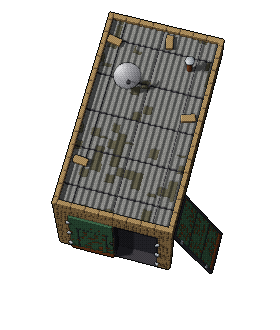
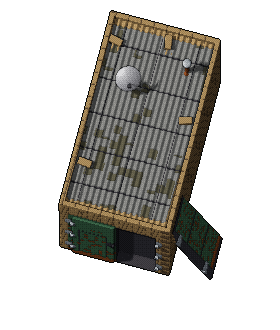
Garage drawn by depth, fellow's quests one at a time, his legs
The garage is rendered like the wreck and its containers: no perspective,
its ground laid out as the game lays it, with a depth map, so the game
draws it in bands, each bit in front of the hero or behind him as it
stands; the bits in front of him go see-through when it covers him. Its
collision is a rectangle round its walls (with a little room for his
pack) in place of the row of circles that cut its corners.

The fellow gives his quests one at a time: "Why are you here alone?"
(gold) starts the equipment quest; then "You look weird!" (blue) starts
the huge thing's, its sector opened on the map then. Both answers can be
cut off with E. His name card is gold while he has a story ask, blue
while a side quest's. The side quest panel slides in from the right as
the main one does. fellowAsked is kept in the checkpoint on its own.

The fellow's legs: thinner, narrowing down to the ankle, not quite even.

Changed region(s): [[0.1714, 0.0303, 0.8, 0.8485]]

diff --git a/public/client.js b/public/client.js
@@ -126,7 +126,8 @@ const shownTarget = () => (backpackCue.phase === 'armed' || backpackCue.phase ==
 // (what the quest is after is named in gold, as in its text; its name up out of the way of its life's dots, when it has them)
 const labelOf = (o, x, y) => {
   const box = sprites.objectInk(o.sprite ?? o.name, x, y);
-  return { id: o.id ?? o.name, text: o.label, sub: o.note, box: lifeOf(o) ? { ...box, y0: box.y0 - LIFE_ROOM } : box, quest: o.name === shownTarget(), side: questOn(o) };
+  const asks = o.name === 'fellow' ? fellowAsks() : []; // (the fellow: in gold while he's a story's ask to be asked, in blue while a side quest's)
+  return { id: o.id ?? o.name, text: o.label, sub: o.note, box: lifeOf(o) ? { ...box, y0: box.y0 - LIFE_ROOM } : box, quest: o.name === shownTarget() || asks.some((a) => a.gold), side: questOn(o) || asks.some((a) => a.side) };
 };
 // A thing's life, shown over it (see render/life.js) while it's to be hit, as [left, most]: the bottles'
 // while the drill's on (one each), the bag's while its quest is (a cut each); or null
@@ -1814,8 +1815,8 @@ const CHECKPOINT = 'colonism.checkpoint';
 const SECTORS = [
   { at: () => pod.home, explored: () => hasBackpack || checkpointReached, activity: () => hasBackpack },
   { at: () => STRUCTURES.home, explored: () => hasBackpack || checkpointReached, activity: () => firesideUsed },
-  { at: () => EQUIPMENT.home, explored: () => fellowAsked, activity: () => equipmentReturned }, // (D2 and C1: shown him by the fellow's answer)
-  { at: () => HUGE_THING.home, explored: () => fellowAsked, activity: () => eggKilled },
+  { at: () => EQUIPMENT.home, explored: () => fellowAsked, activity: () => equipmentReturned }, // (D2: shown him by the fellow's answer)
+  { at: () => HUGE_THING.home, explored: () => quests.started('hugeThing'), activity: () => eggKilled }, // (C1: once the fellow's spoken of it)
   { at: () => WRECK.home, explored: () => fellowThreatened, activity: () => false }, // (C3: shown him by his answer to the threat; its device not got yet)
   { at: () => D3, explored: () => fellowThreatened, activity: () => false }, // (and D3, next to it: on the way there)
 ];
@@ -1828,15 +1829,24 @@ let checkpointReached = false, firesideUsed = false, fellowTalked = false, fello
 let fellowAsk = false; // what to ask the fellow is up over the hero (by number), till he picks one or walks off
 // What he can ask the fellow (each while it can be: when()), numbered in order: what comes of it at once
 // (now()), as he asks; the fellow answers once he's said it (typed out, and a moment), and then what
-// comes of that (then()); gold: the story's
+// comes of that (then()); gold: the story's; side: a side quest's
 const FELLOW_ASKS = [{
-  text: 'How do I get off this planet?',
+  text: 'Why are you here alone?',
   gold: true,
+  minor: true, // (E's back while he answers: he can be cut off, the quest he gives on all the same)
   when: () => !fellowAsked && quests.target() === 'fellow', // (while the quest to ask him is on)
-  answer: 'I lost my equipment in the West. I have a couple of ideas, but I\'m completely useless without it, help me get it back. By the way, have you seen that huge thing near the pole?',
-  then() { // the quest to find a way off done (its note first), the next on; the beacon's sector and the pole's explored, their marks on the map
+  answer: 'The others flew off. I stayed to finish research. I don\'t like the others! Will you help me get my equipment back? Those damned bugs dragged it off.',
+  then() { // the quest to find a way off done (its note first), the next on: his equipment; the beacon's sector explored, its mark on the map
     quests.note('Still nothing interesting...');
     fellowAsked = true;
+  },
+}, {
+  text: 'You look weird!',
+  side: true, // (in blue: it starts a side quest)
+  minor: true, // (E's back while he answers: he can be cut off, the side quest on all the same)
+  when: () => fellowAsked && !quests.started('hugeThing'), // (once he's had his answer, till he's heard of it)
+  answer: 'So do you! You fell from the sky, I saw it... By the way, have you noticed that huge thing not far from the pole?',
+  then() { // the side quest to see it on; the pole's sector explored, its mark on the map
     quests.start('hugeThing');
   },
 }, {
@@ -1872,7 +1882,7 @@ const wellObj = OBJECTS.find((o) => o.name === 'well'), WELL_FOUND = 2.5 * UNITS
 function saveCheckpoint() {
   checkpointReached = true;
   try {
-    localStorage.setItem(CHECKPOINT, JSON.stringify({ level, xp, points, talents: talents.taken(), stats: character.stats, medkits, equipment: hasEquipment, equipmentReturned, fellowThreatened, wellSeen, quests: quests.save() }));
+    localStorage.setItem(CHECKPOINT, JSON.stringify({ level, xp, points, talents: talents.taken(), stats: character.stats, medkits, fellowAsked, equipment: hasEquipment, equipmentReturned, fellowThreatened, wellSeen, quests: quests.save() }));
   } catch { /* (no storage: nothing kept) */ }
 }
 function loadCheckpoint() {
@@ -1888,7 +1898,8 @@ function loadCheckpoint() {
   character.restore(saved.stats);
   me.hp = maxHp = HP + character.stats.strength; // (strength's health on top: all of it)
   quests.load(saved.quests);
-  fellowAsked = fellowTalked = quests.started('hugeThing'); // (the fellow's answer had: all it opened)
+  fellowAsked = saved.fellowAsked ?? quests.started('hugeThing'); // (the fellow's answer had: all it opened) (older checkpoints: by the quest it used to open too)
+  fellowTalked = fellowAsked;
   eggKilled = quests.finished('hugeThing'); // (burst before: only its pit there, its sector done)
   if (eggKilled) eggGone();
   hasEquipment = !!saved.equipment; // (picked up before: its crate gone)
@@ -2147,7 +2158,7 @@ function render(now, dt, talkDt = dt) {
   const bodies = [
     // A big thing drawn in bands by how far down the ground each of its pixels stands (sprites.bands): each in
     // its place among the characters, so each bit of it is in front of them or behind them as it should be
-    ...placed.filter((o) => !o.flat && sprites.bands(o.sprite ?? o.name)).flatMap((o) => sprites.bands(o.sprite ?? o.name).map((b) => ({ y: o.y + b.y * UNITS_PER_M, draw: () => sprites.drawBand(ctx, o.sprite ?? o.name, b, o.sx, o.sy) }))),
+    ...placed.filter((o) => !o.flat && sprites.bands(o.sprite ?? o.name)).flatMap((o) => sprites.bands(o.sprite ?? o.name).map((b) => ({ y: o.y + b.y * UNITS_PER_M, draw: () => sprites.drawBand(ctx, o.sprite ?? o.name, b, o.sx, o.sy, o.y + b.y * UNITS_PER_M > me.y && hidesMe(o) ? 0.45 : 1) }))), // (the bits in front of him see-through, if it covers him)
     ...placed.filter((o) => !o.flat && !sprites.bands(o.sprite ?? o.name)).map((o) => ({ y: o.footprint ? tallY(o) : o.y, draw: () => sprites.drawObject(ctx, o.sprite ?? o.name, 'body', o.sx, o.sy, hidesMe(o) ? 0.45 : 1, o.frame) })),
     ...players.map((p) => ({ y: p.y, draw: () => sprites.drawCharacter(ctx, p.sprite, pose(p)) })),
     ...bugs.map((b) => ({ y: b.y, draw: () => sprites.drawCharacter(ctx, 'bug', bugPose(b)) })),
@@ -2242,7 +2253,7 @@ function render(now, dt, talkDt = dt) {
   }
   // What he can do now, to pick by its number (what to ask the fellow, in gold: the story's): right
   // over him (over the hint, if it's up), the first on top, his line over them all
-  const choices = fellowAsk ? fellowAsks().map((ask) => ({ text: ask.text, gold: !!ask.gold })) : [];
+  const choices = fellowAsk ? fellowAsks().map((ask) => ({ text: ask.text, gold: !!ask.gold, side: !!ask.side })) : [];
   choices.forEach((c, i) => labels.warn(c.text, String(i + 1), sayEdge, sayAt - 6 - (choices.length - 1 - i) * 28, keys.has(`Digit${i + 1}`) ? 1 : 0, '', !!c.gold, !!c.side));
   if (choices.length) sayAt -= choices.length * 28;
   const said = speech.draw(me0.x, sayAt, talkDt, sayEdge);
@@ -2283,7 +2294,7 @@ function render(now, dt, talkDt = dt) {
     { at: pod.home, color: '#fff', name: pod.label },
     { at: POLE, color: '#fff', name: 'N' }, // the poles
     { at: POLE.map((v) => -v), color: '#fff', name: 'S' },
-    ...(fellowSeen && goal?.name !== 'fellow' ? [{ at: fellowObj.home, color: '#fff', name: fellowObj.label }] : []), // (the fellow, once he's been seen)
+    ...(fellowSeen && goal?.name !== 'fellow' ? [fellowAsks().some((a) => a.side) ? { at: fellowObj.home, color: BLUE, name: fellowObj.label, side: true } : { at: fellowObj.home, color: '#fff', name: fellowObj.label }] : []), // (the fellow, once he's been seen: in blue while he's a side quest to give)
     ...(wellSeen ? [{ at: wellObj.home, color: '#fff', name: wellObj.label }] : []), // (the well, once he's come up to it)
     ...(goal ? [{ at: goal.home, color: GOLD, name: quests.mark() ?? goal.label, quest: true }] : []), // where the quest leads, in gold (as the quest is)
     ...(goal !== STRUCTURES && goal?.name !== 'campfire' && mapCue.phase !== 'armed' ? [{ at: STRUCTURES.home, color: '#fff', name: STRUCTURES.label }] : []), // (and the safe place, once he's said where it is: white, when it's not where the quest leads)

diff --git a/shared/world.js b/shared/world.js
@@ -249,12 +249,13 @@ const TURRET_SOLID = { x: TURRET.x, y: TURRET.y, r: 0.34 * UNITS_PER_M, cover: t
 OBJECTS.push({ name: 'turret', x: TURRET.x, y: TURRET.y, solid: TURRET_SOLID, aim: Math.PI / 2 });
 OBSTACLES.push(TURRET_SOLID);
 // Over them all, to one side: a garage, the Soviet kind (a brick box, longer than wide, along y), its
-// gates in its +y end (facing the camera, down to the campfire); it stops the hero, and shots, along a
-// row of circles down it
+// gates in its +y end (facing the camera, down to the campfire); it stops the hero, and shots, by its
+// walls (a rectangle round them)
 export const GARAGE = { x: STRUCTURES.x - 2.2 * UNITS_PER_M, y: STRUCTURES.y - 6.5 * UNITS_PER_M, yaw: 0.26 }; // (turned a little)
 export const GARAGE_SIZE = [1.7, 3.0, 3.6]; // meters: its half width (x), half depth (y), its walls' height (well over the hero)
 OBJECTS.push({ name: 'garage', x: GARAGE.x, y: GARAGE.y, yaw: GARAGE.yaw, footprint: GARAGE_SIZE }); // (footprint: big and tall, see client.js's drawing order)
-OBSTACLES.push(...[-2.2, -1.1, 0, 1.1, 2.2].map((m) => ({ ...modelToWorld(GARAGE, [0, m]), r: 1.75 * UNITS_PER_M, cover: true, of: 'garage' })));
+const GARAGE_KEEP = 0.15; // meters past its walls (he's wider than his feet: his pack; the art's depth sorts the rest, see client.js)
+OBSTACLES.push(...solidRect({ ...GARAGE, name: 'garage' }, 0, -GARAGE_SIZE[0] - GARAGE_KEEP, GARAGE_SIZE[0] + GARAGE_KEEP, -GARAGE_SIZE[1] - GARAGE_KEEP, GARAGE_SIZE[1] + GARAGE_KEEP)); // (its walls, square to the corners)
 // Its torn-off gate leaf, leant against its side wall by the doorway (its middle, meters, in its model;
 // the art draws it there): it stops the hero, and shots, along a few circles down its foot, and in the
 // gap between it and the wall

diff --git a/public/quests.js b/public/quests.js
@@ -132,13 +132,20 @@ export function createQuests(box, side, done = () => {}) {
     box.classList.toggle('done', finished);
     box.classList.toggle('main', !!q.main);
   }
-  function renderSides() {
+  // slide: a side quest just started, the panel slides in from the right as the main one's does (if it wasn't up)
+  function renderSides(slide = false) {
     const next = sidesOn().map((q) => `<div class="title">${q.title}</div>` + (q.about ? `<div class="about">${q.about}</div>` : '')).join('<div class="split"></div>');
     if (next === sideHtml) return;
+    const appears = slide && !sideHtml && !!next;
     sideHtml = next;
     side.innerHTML = sideHtml;
+    if (appears) side.classList.add('coming'); // (off past the screen's edge first...)
     side.classList.toggle('none', !sideHtml);
     side.classList.add('side');
+    if (appears) {
+      side.getBoundingClientRect(); // (...laid out there...)
+      side.classList.remove('coming'); // (...then in)
+    }
   }
   render();
   renderSides();
@@ -203,7 +210,7 @@ export function createQuests(box, side, done = () => {}) {
     // A side quest (by its id in sides) on from now; started(id): it is (done or not); finished(id): it's done
     start(id) {
       sides[id].on = true;
-      renderSides();
+      renderSides(true);
     },
     started: (id) => !!sides[id].on,
     finished: (id) => !!sides[id].on && sides[id].steps.every((s) => s.done), // (and done)

diff --git a/public/render/sprites.js b/public/render/sprites.js
@@ -140,10 +140,12 @@ export async function loadSprites(manifestUrl) {
 
     // A big object's depth bands ({ y (meters down the ground from its anchor), ... }), or undefined
     bands: (name) => objects[name]?.bands,
-    // One of them, the object's anchor at screen (x, y)
-    drawBand(ctx, name, band, x, y) {
+    // One of them, the object's anchor at screen (x, y); alpha: see-through (in front of him, over him)
+    drawBand(ctx, name, band, x, y, alpha = 1) {
       const s = objects[name], k = s.scale ?? scale;
+      ctx.globalAlpha = alpha;
       blit(ctx, band.canvas, 0, 0, band.canvas.width, band.canvas.height, Math.round((x - (s.anchor[0] - band.x0) * k) / k) * k, Math.round((y - (s.anchor[1] - band.y0) * k) / k) * k, false, k);
+      ctx.globalAlpha = 1;
     },
 
     // An object's layers, each with its anchor at screen (x, y): 'decal' (on the ground, under
